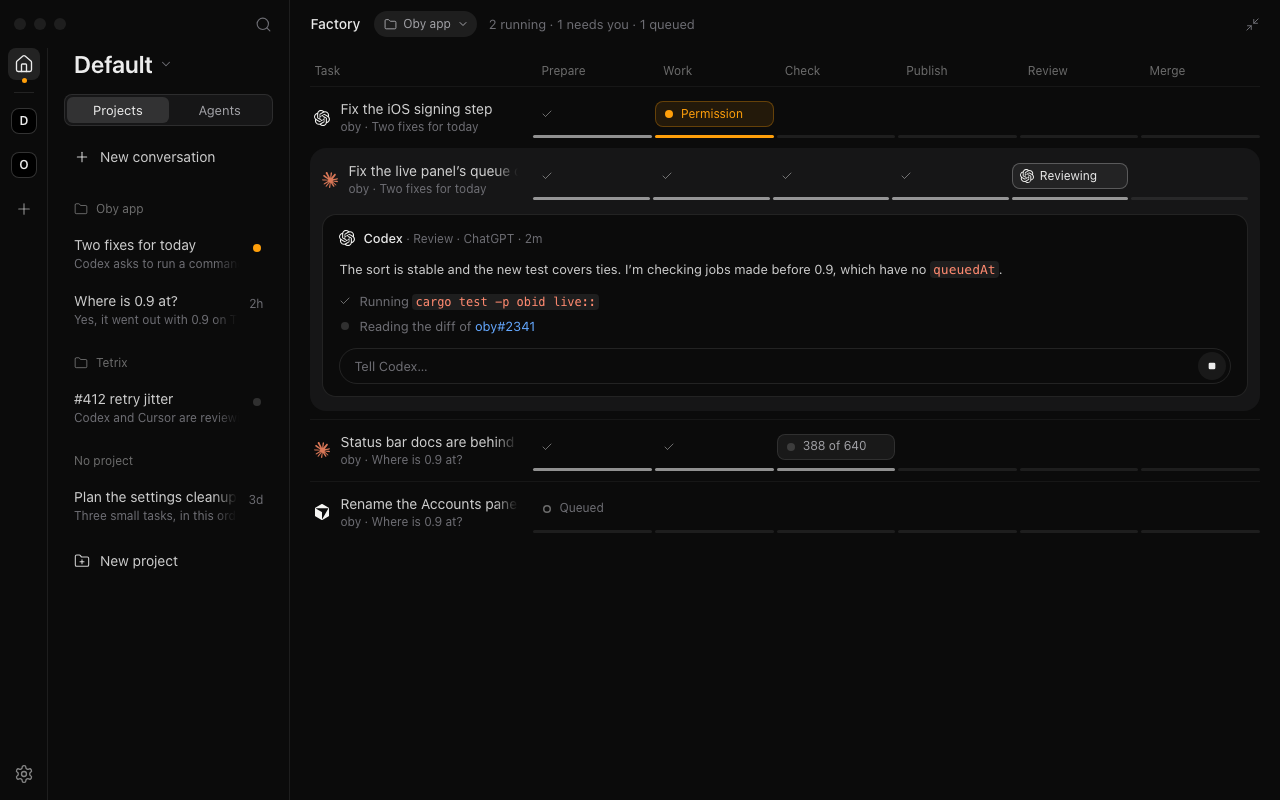
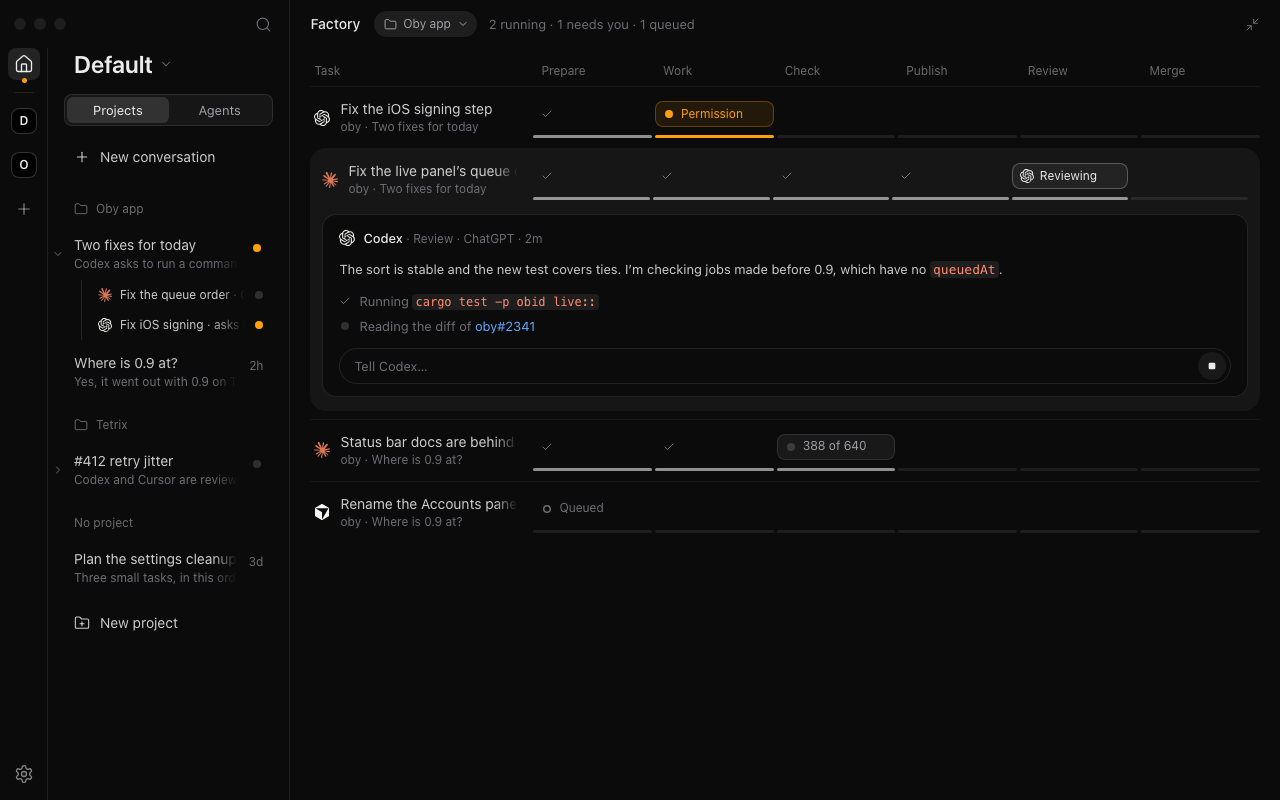
docs(design): a conversation's agents nest under it in the side panel, with a toggle (#2355)
The owner asked for it on 2026-11-15: each agent at work shows under its conversation with the
logo of the tool its account runs on, and a toggle shows or hides them. The screenshots, the
design README and A00-71 (which builds the side panel) now say so.

diff --git a/factory/queue/tasks/A00-71.md b/factory/queue/tasks/A00-71.md
@@ -12,6 +12,8 @@ Design: docs/design/oby-home/ (README.md and the numbered screenshots; the owner
 
 What the owner sees. The side panel lists conversations under their project's name (a folder mark and the name), then "No project". Each row's second line says what its agents are doing. The message box has a chip with the project ("Oby app", a small arrow) that opens a menu of projects with their repository counts, "No project" and "New project…". "New project" is also a row at the foot of the list. Its sheet asks for a name and its folders and repositories ("Add a folder…", "Add from GitHub…"), with "Cancel" and "Create project". A conversation's title bar shows the same chip.
 
+Under each conversation, its agents nest as rows of their own: the logo of the tool its account runs on, what it works on and what it is doing, its mark (working or needs you), and the account's name on hover; a toggle beside the conversation shows or hides them, and the choice is kept per conversation. A row opens that agent inside the conversation (A00-72). The owner asked for this on 2026-11-15.
+
 How. Read and write obid's projects (the task before this one). Nothing is kept in the app but which groups are folded.
 
 ### Files

diff --git a/docs/design/oby-home/README.md b/docs/design/oby-home/README.md
@@ -19,6 +19,7 @@ A proposal the owner approved on 2026-11-15, drawn with Oby's design system (San
 
 - The mini sidebar is Sangam's: Home first, a line, then the Obyspheres, Settings at the foot. Its divider starts under the title bar, clear of the window's buttons.
 - The side panel's title is the profile's name. Under it, one switch: Projects (development work) and Agents (general work). Each profile has its own of both.
+- In the side panel, a conversation's agents nest under it, one row each: the logo of the tool its account runs on (Claude Code, Codex, Cursor), what it works on and what it is doing, and its own mark (working, needs you). The account's name shows on hover. A small toggle beside the conversation shows or hides them (screens 01 to 07).
 - Chats and tasks are one thing: a task's card opens in place into its agent's own words and steps. The message box at the foot talks to Oby; the small box in an opened card talks to that agent.
 - The message box shows who it talks through, as the app's pill does: "Auto" until the owner chooses.
 - The factory belongs to a project. Its stages are a job's own: Prepare, Work, Check, Publish, Review, Merge.
